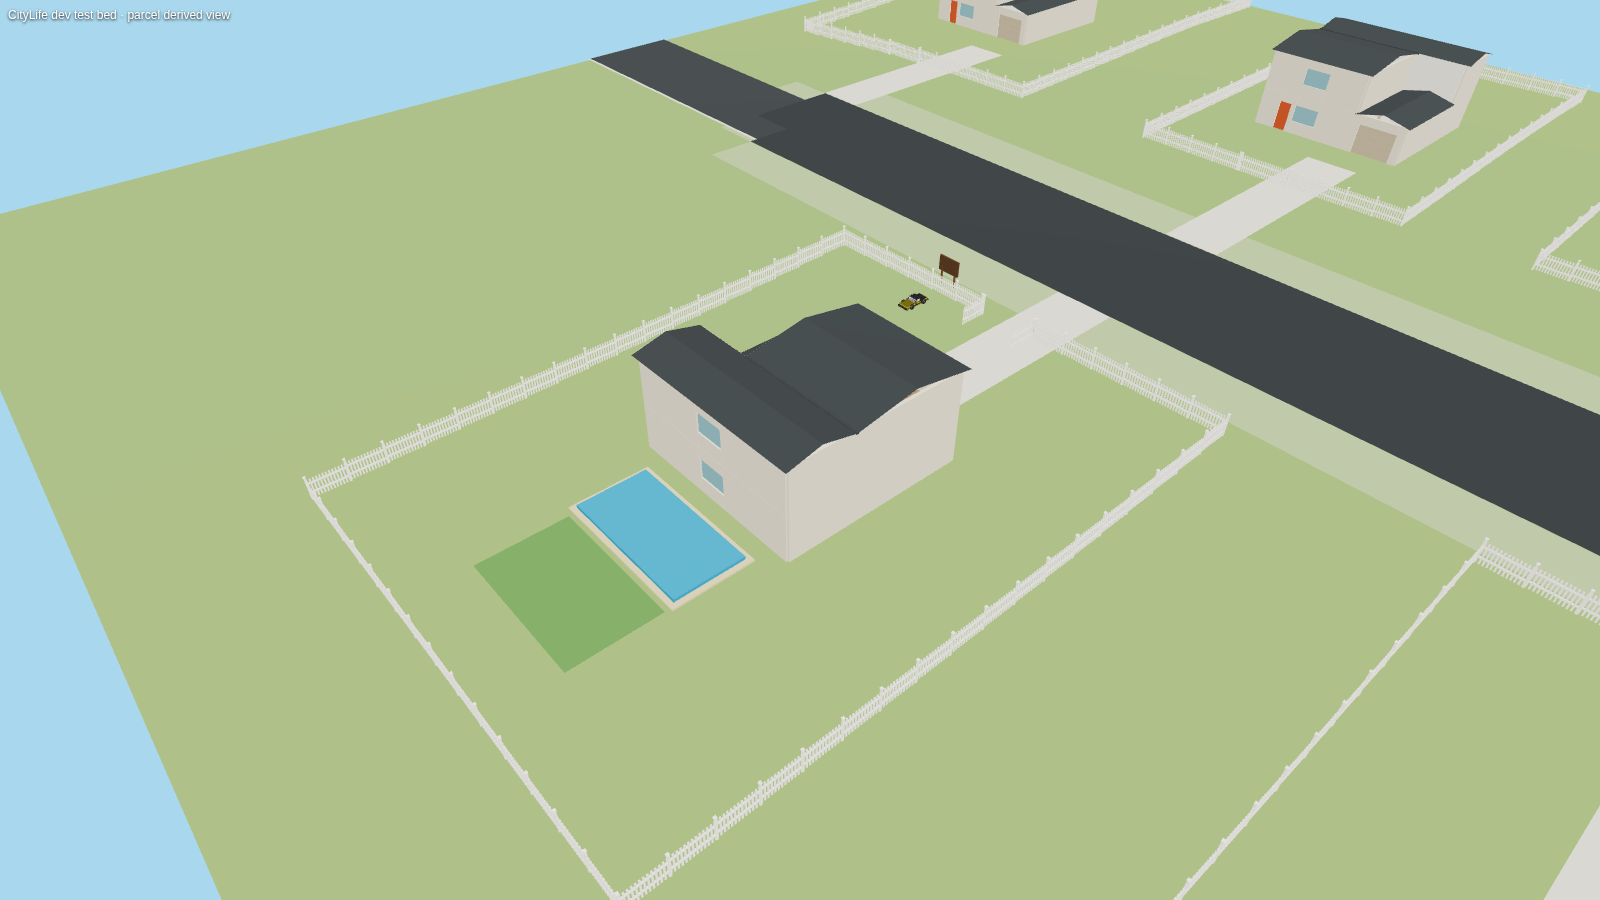
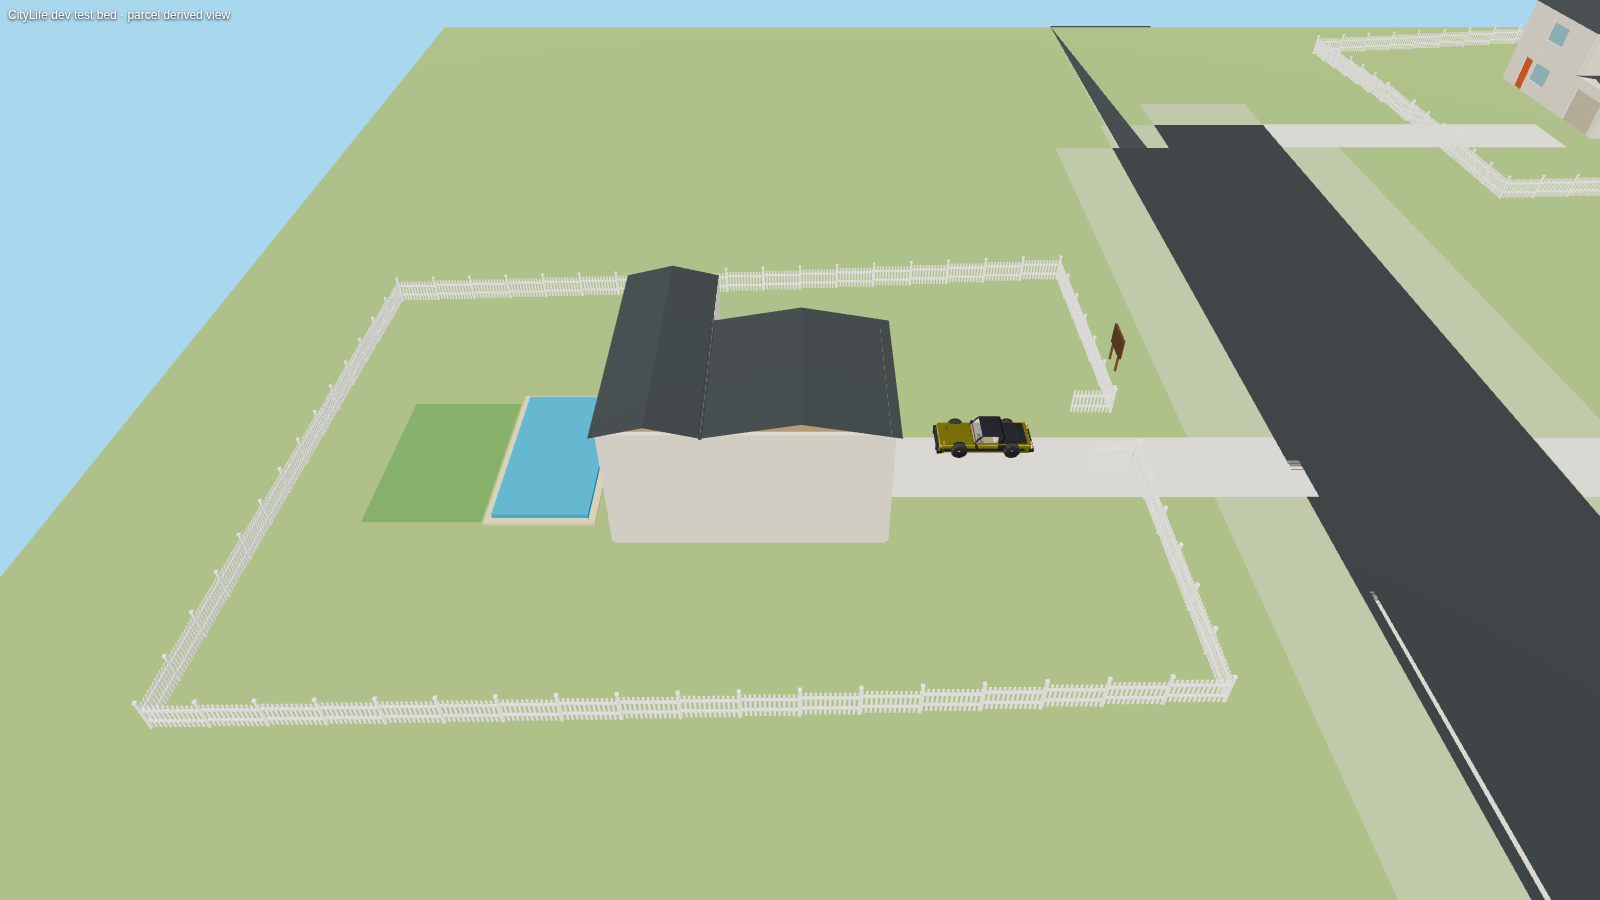
Scale the cue car to 4.2 m and park it on the driveway
ScaleCar assumed the Fiat X1/9's length was on X and capped Z at
1.9 m, so the live world box was 0.85 × 0.47 × 1.90 m. It now
scales the longest horizontal axis to 4.2 m (width/height capped
at 2 m) and sits on a driveway cell inland of the gate. Test
covers both axis conventions and driveway placement.

diff --git a/src/colony/testbed/fenceGarageTestbed.tsx b/src/colony/testbed/fenceGarageTestbed.tsx
@@ -7,6 +7,7 @@ import {ColonySim} from "../sim";
 import {pickSlopeFixture, heightfieldWindow, type SlopeFixtureKind} from "./slopeFixtures";
 import {gradePlot} from "../slope/plotGrading";
 import {housePoseForParcel} from "../render/housePlacement";
+import {carPoseForParcel} from "../render/carPlacement";
 import {parcelStreetDirection} from "../parcelGeometry";
 import {buildEarthworksGeometry} from "../render/earthworksGeometry";
 import {parcelFencePlacements} from "../render/parcelFencePlacement";
@@ -45,7 +46,7 @@ const firstBoard=unsoldNeighbours[0]?forSaleBoardPlacement(unsoldNeighbours[0],f
 const rowCentre:[number,number,number]=near.length?[near.reduce((sum,p)=>sum+W(p.gate.x),0)/near.length,0,near.reduce((sum,p)=>sum+W(p.gate.y),0)/near.length]:info.plotCentre;
  const fixtureCameraInputs={kind:fixture.kind,houseParcel:fixture.kind==="flat"?(testbedParcels.find(p=>p.id==="lot_1"&&p.tier==="ESTATE")??parcel):parcel,houseGrading:fixture.kind==="flat"?gradePlot(testbedParcels.find(p=>p.id==="lot_1"&&p.tier==="ESTATE")??parcel,terrainGround):fixture.grading,mapSize:fixture.mapSize,boardWorld:firstBoard?.position??info.gateWorld,rowCentre,nearParcels:near,nearBounds:near.map(bounds)} as const;
 function EnvelopeHouse({p,grading}:{p:Parcel;grading:ReturnType<typeof gradePlot>}){const {scene}=useGLTF("/assets/citylife/houses/estate-motor-home-seed9.glb");const model=React.useMemo(()=>scene.clone(true),[scene]);const pose=housePoseForParcel(p,fixture.mapSize,grading);const size=React.useMemo(()=>new THREE.Box3().setFromObject(model).getSize(new THREE.Vector3()),[model]);model.userData.runtimeFootprintM={w:size.x,d:size.z};return <primitive object={model} position={pose.position} rotation={[0,pose.rotationY,0]}/>;}
-function ScaleCar({p}:{p:Parcel}){const {scene}=useGLTF("/assets/citylife/cars/modern_car.glb");const model=React.useMemo(()=>scene.clone(true),[scene]);const box=React.useMemo(()=>new THREE.Box3().setFromObject(model),[model]);const size=box.getSize(new THREE.Vector3());const scale=Math.min(4.2/size.x,2.0/size.y,1.9/size.z);model.scale.setScalar(scale);const gate=parcelStreetDirection(p),gx=p.gate.x+gate[1]*1.4,gy=p.gate.y-gate[0]*1.4,x=W(gx),z=W(gy),y=terrainGround(gx,gy)-box.min.y*scale;return <primitive object={model} position={[x,y,z]} rotation={[0,Math.atan2(gate[0],gate[1]),0]}/>;}
+function ScaleCar({p}:{p:Parcel}){const {scene}=useGLTF("/assets/citylife/cars/modern_car.glb");const model=React.useMemo(()=>scene.clone(true),[scene]);const box=React.useMemo(()=>new THREE.Box3().setFromObject(model),[model]);const size=box.getSize(new THREE.Vector3()),pose=carPoseForParcel(p,fixture.mapSize,terrainGround,{...size,min:{x:box.min.x,y:box.min.y,z:box.min.z}});model.scale.setScalar(pose.scale);return <primitive object={model} position={pose.position} rotation={[0,pose.rotationY,0]}/>;}
 function Heightfield(){const geometry=React.useMemo(()=>{const w=heightfieldWindow(fixture),segmentsX=(w.maxGx-w.minGx)*CELL_SIZE,segmentsZ=(w.maxGy-w.minGy)*CELL_SIZE,positions:number[]=[],colors:number[]=[],indices:number[]=[],base=new THREE.Color("#a9bd7f"),wet=new THREE.Color("#b9b08a");for(let z=0;z<=segmentsZ;z++)for(let x=0;x<=segmentsX;x++){const gx=w.minGx+x/CELL_SIZE,gy=w.minGy+z/CELL_SIZE,y=terrainGround(gx,gy);positions.push((gx-fixture.mapSize/2)*CELL_SIZE,y,(gy-fixture.mapSize/2)*CELL_SIZE);const halfBand=Math.floor(y/.5),wholeMetre=Math.abs(y-Math.round(y))<.045,color=y<0?wet:base.clone().multiplyScalar(wholeMetre?.68:halfBand%2===0?.92:1);colors.push(color.r,color.g,color.b);}for(let z=0;z<segmentsZ;z++)for(let x=0;x<segmentsX;x++){const a=z*(segmentsX+1)+x,b=a+1,c=a+segmentsX+1,d=c+1;indices.push(a,c,b,b,c,d);}const g=new THREE.BufferGeometry();g.setAttribute("position",new THREE.Float32BufferAttribute(positions,3));g.setAttribute("color",new THREE.Float32BufferAttribute(colors,3));g.setIndex(indices);g.computeVertexNormals();return g;},[]);return <mesh geometry={geometry} receiveShadow><meshStandardMaterial vertexColors side={THREE.DoubleSide}/></mesh>;}
 function DrapeSurface({cells,color,lift}:{cells:readonly {x:number;y:number}[];color:string;lift:number}){const geometry=React.useMemo(()=>{const positions:number[]=[],indices:number[]=[];for(const cell of cells){const base=positions.length/3;for(let z=0;z<=4;z++)for(let x=0;x<=4;x++){const gx=cell.x-.5+x/4,gy=cell.y-.5+z/4;positions.push((gx-fixture.mapSize/2)*CELL_SIZE,terrainGround(gx,gy)+lift,(gy-fixture.mapSize/2)*CELL_SIZE);}for(let z=0;z<4;z++)for(let x=0;x<4;x++){const a=base+z*5+x,b=a+1,c=a+5,d=c+1;indices.push(a,c,b,b,c,d);}}const g=new THREE.BufferGeometry();g.setAttribute("position",new THREE.Float32BufferAttribute(positions,3));g.setIndex(indices);g.computeVertexNormals();return g;},[cells,lift]);return <mesh geometry={geometry}><meshStandardMaterial color={color} roughness={1} metalness={0} side={THREE.DoubleSide} polygonOffset polygonOffsetFactor={-2} polygonOffsetUnits={-2}/></mesh>;}
 function RoadDrape({cells,verge}:{cells:readonly {x:number;y:number}[];verge:readonly {x:number;y:number}[]}){const meshes=React.useMemo(()=>buildTestbedRoadDrape({carriage:cells,verge,mapSize:fixture.mapSize,groundAt:terrainGround,streetAxis:info.streetDir}),[cells,verge]);return <group>{meshes.map((item,index)=><mesh key={`${item.kind}-${index}`} geometry={item.geometry}><meshStandardMaterial color={item.color} vertexColors={item.geometry.getAttribute("color")!==undefined} roughness={item.roughness} metalness={0} side={THREE.DoubleSide} polygonOffset polygonOffsetFactor={-2} polygonOffsetUnits={-2}/></mesh>)}</group>;}

diff --git a/tests/plotTiersFit.test.ts b/tests/plotTiersFit.test.ts
@@ -15,6 +15,7 @@ import { LAND_PRICE_PER_M2_KCO, plotBoardPriceKco, plotSizeM } from "../src/colo
 import { parcelFencePlacements } from "../src/colony/render/parcelFencePlacement";
 import { garageFootprintInside, starterGaragePlacement } from "../src/colony/render/starterGaragePlacement";
 import { housePoseForParcel } from "../src/colony/render/housePlacement";
+import { carPoseForParcel, carScaleFromNativeSize } from "../src/colony/render/carPlacement";
 import { parcelStreetDirection } from "../src/colony/parcelGeometry";
 import { gradePlot } from "../src/colony/slope/plotGrading";
 
@@ -62,6 +63,30 @@ function generated() {
 }
 
 describe("plot tier table (spec 180 Round 11)", () => {
+  it("scales the Fiat by its longest horizontal axis and seats it on the driveway", () => {
+    const fiat = { x: 1.825, y: 1.01, z: 4.08 };
+    const scale = carScaleFromNativeSize(fiat);
+    const length = Math.max(fiat.x, fiat.z) * scale;
+    const width = Math.min(fiat.x, fiat.z) * scale;
+    expect(length).toBeCloseTo(4.2, 1);
+    expect(width).toBeGreaterThanOrEqual(1.6);
+    expect(width).toBeLessThanOrEqual(2.0);
+    expect(fiat.y * scale).toBeGreaterThanOrEqual(0.9);
+    expect(fiat.y * scale).toBeLessThanOrEqual(2.0);
+    const oldScale = Math.min(4.2 / fiat.x, 2.0 / fiat.y, 1.9 / fiat.z);
+    expect(Math.abs(fiat.z * scale - fiat.z * oldScale)).toBeGreaterThan(0.1);
+    expect(Math.abs(fiat.z * scale - 1.9)).toBeGreaterThan(0.1);
+    expect(Math.max(1.825, 4.08) * carScaleFromNativeSize({ x: 4.08, y: 1.01, z: 1.825 })).toBeCloseTo(4.2, 1);
+
+    const sim = new ColonySim(180);
+    const parcel = makeNeighborhoodAt(sim.state.terrain, sim.state.terrain.landing, { small: false }).parcels[0]!;
+    const pose = carPoseForParcel(parcel, sim.state.terrain.size, () => 3, { ...fiat, min: { x: 0, y: 0, z: 0 } });
+    expect(parcel.driveway.some((cell) => cell.x === pose.cell.x && cell.y === pose.cell.y)).toBe(true);
+    const street = parcelStreetDirection(parcel), inland: [number, number] = [-street[0], -street[1]];
+    expect((pose.cell.x - parcel.gate.x) * inland[0] + (pose.cell.y - parcel.gate.y) * inland[1]).toBeGreaterThan(0);
+    expect(pose.position[1]).toBe(3);
+  });
+
   it("fits the placed ESTATE house, pool and lawn inside the real 28 x 36 m lot",()=>{
     const sim=new ColonySim(180),p=makeNeighborhoodAt(sim.state.terrain,sim.state.terrain.landing,{small:false}).parcels.find(x=>x.id==="lot_1")!;
     expect(p.tier).toBe("ESTATE");

diff --git a/src/colony/render/carPlacement.ts b/src/colony/render/carPlacement.ts
@@ -1,0 +1,35 @@
+import type { Parcel } from "../neighborhood";
+import { parcelStreetDirection } from "../parcelGeometry";
+import { CELL_SIZE } from "../scale";
+
+export interface CarNativeSize { x: number; y: number; z: number }
+export interface CarNativeBox extends CarNativeSize { min: { x: number; y: number; z: number } }
+
+export function carScaleFromNativeSize(size: CarNativeSize): number {
+  const length = Math.max(size.x, size.z);
+  const width = Math.min(size.x, size.z);
+  return Math.min(4.2 / length, 2.0 / width, 2.0 / size.y);
+}
+
+export function carPoseForParcel(
+  parcel: Parcel,
+  mapSize: number,
+  groundAt: (x: number, y: number) => number,
+  nativeBox: CarNativeBox,
+) {
+  const street = parcelStreetDirection(parcel);
+  const inland: [number, number] = [-street[0], -street[1]];
+  const candidates = parcel.driveway
+    .filter((cell) => !(cell.x === parcel.gate.x && cell.y === parcel.gate.y))
+    .filter((cell) => (cell.x - parcel.gate.x) * inland[0] + (cell.y - parcel.gate.y) * inland[1] > 0)
+    .filter((cell) => cell.x < parcel.houseZone.x || cell.x >= parcel.houseZone.x + parcel.houseZone.w || cell.y < parcel.houseZone.y || cell.y >= parcel.houseZone.y + parcel.houseZone.d);
+  const cell = candidates[0] ?? parcel.driveway.find((candidate) => candidate.x !== parcel.gate.x || candidate.y !== parcel.gate.y) ?? parcel.gate;
+  const gx = cell.x, gy = cell.y;
+  const scale = carScaleFromNativeSize(nativeBox);
+  return {
+    position: [(gx - mapSize / 2) * CELL_SIZE, groundAt(gx, gy) - nativeBox.min.y * scale, (gy - mapSize / 2) * CELL_SIZE] as [number, number, number],
+    rotationY: Math.atan2(street[0], street[1]),
+    scale,
+    cell: { x: gx, y: gy },
+  };
+}
